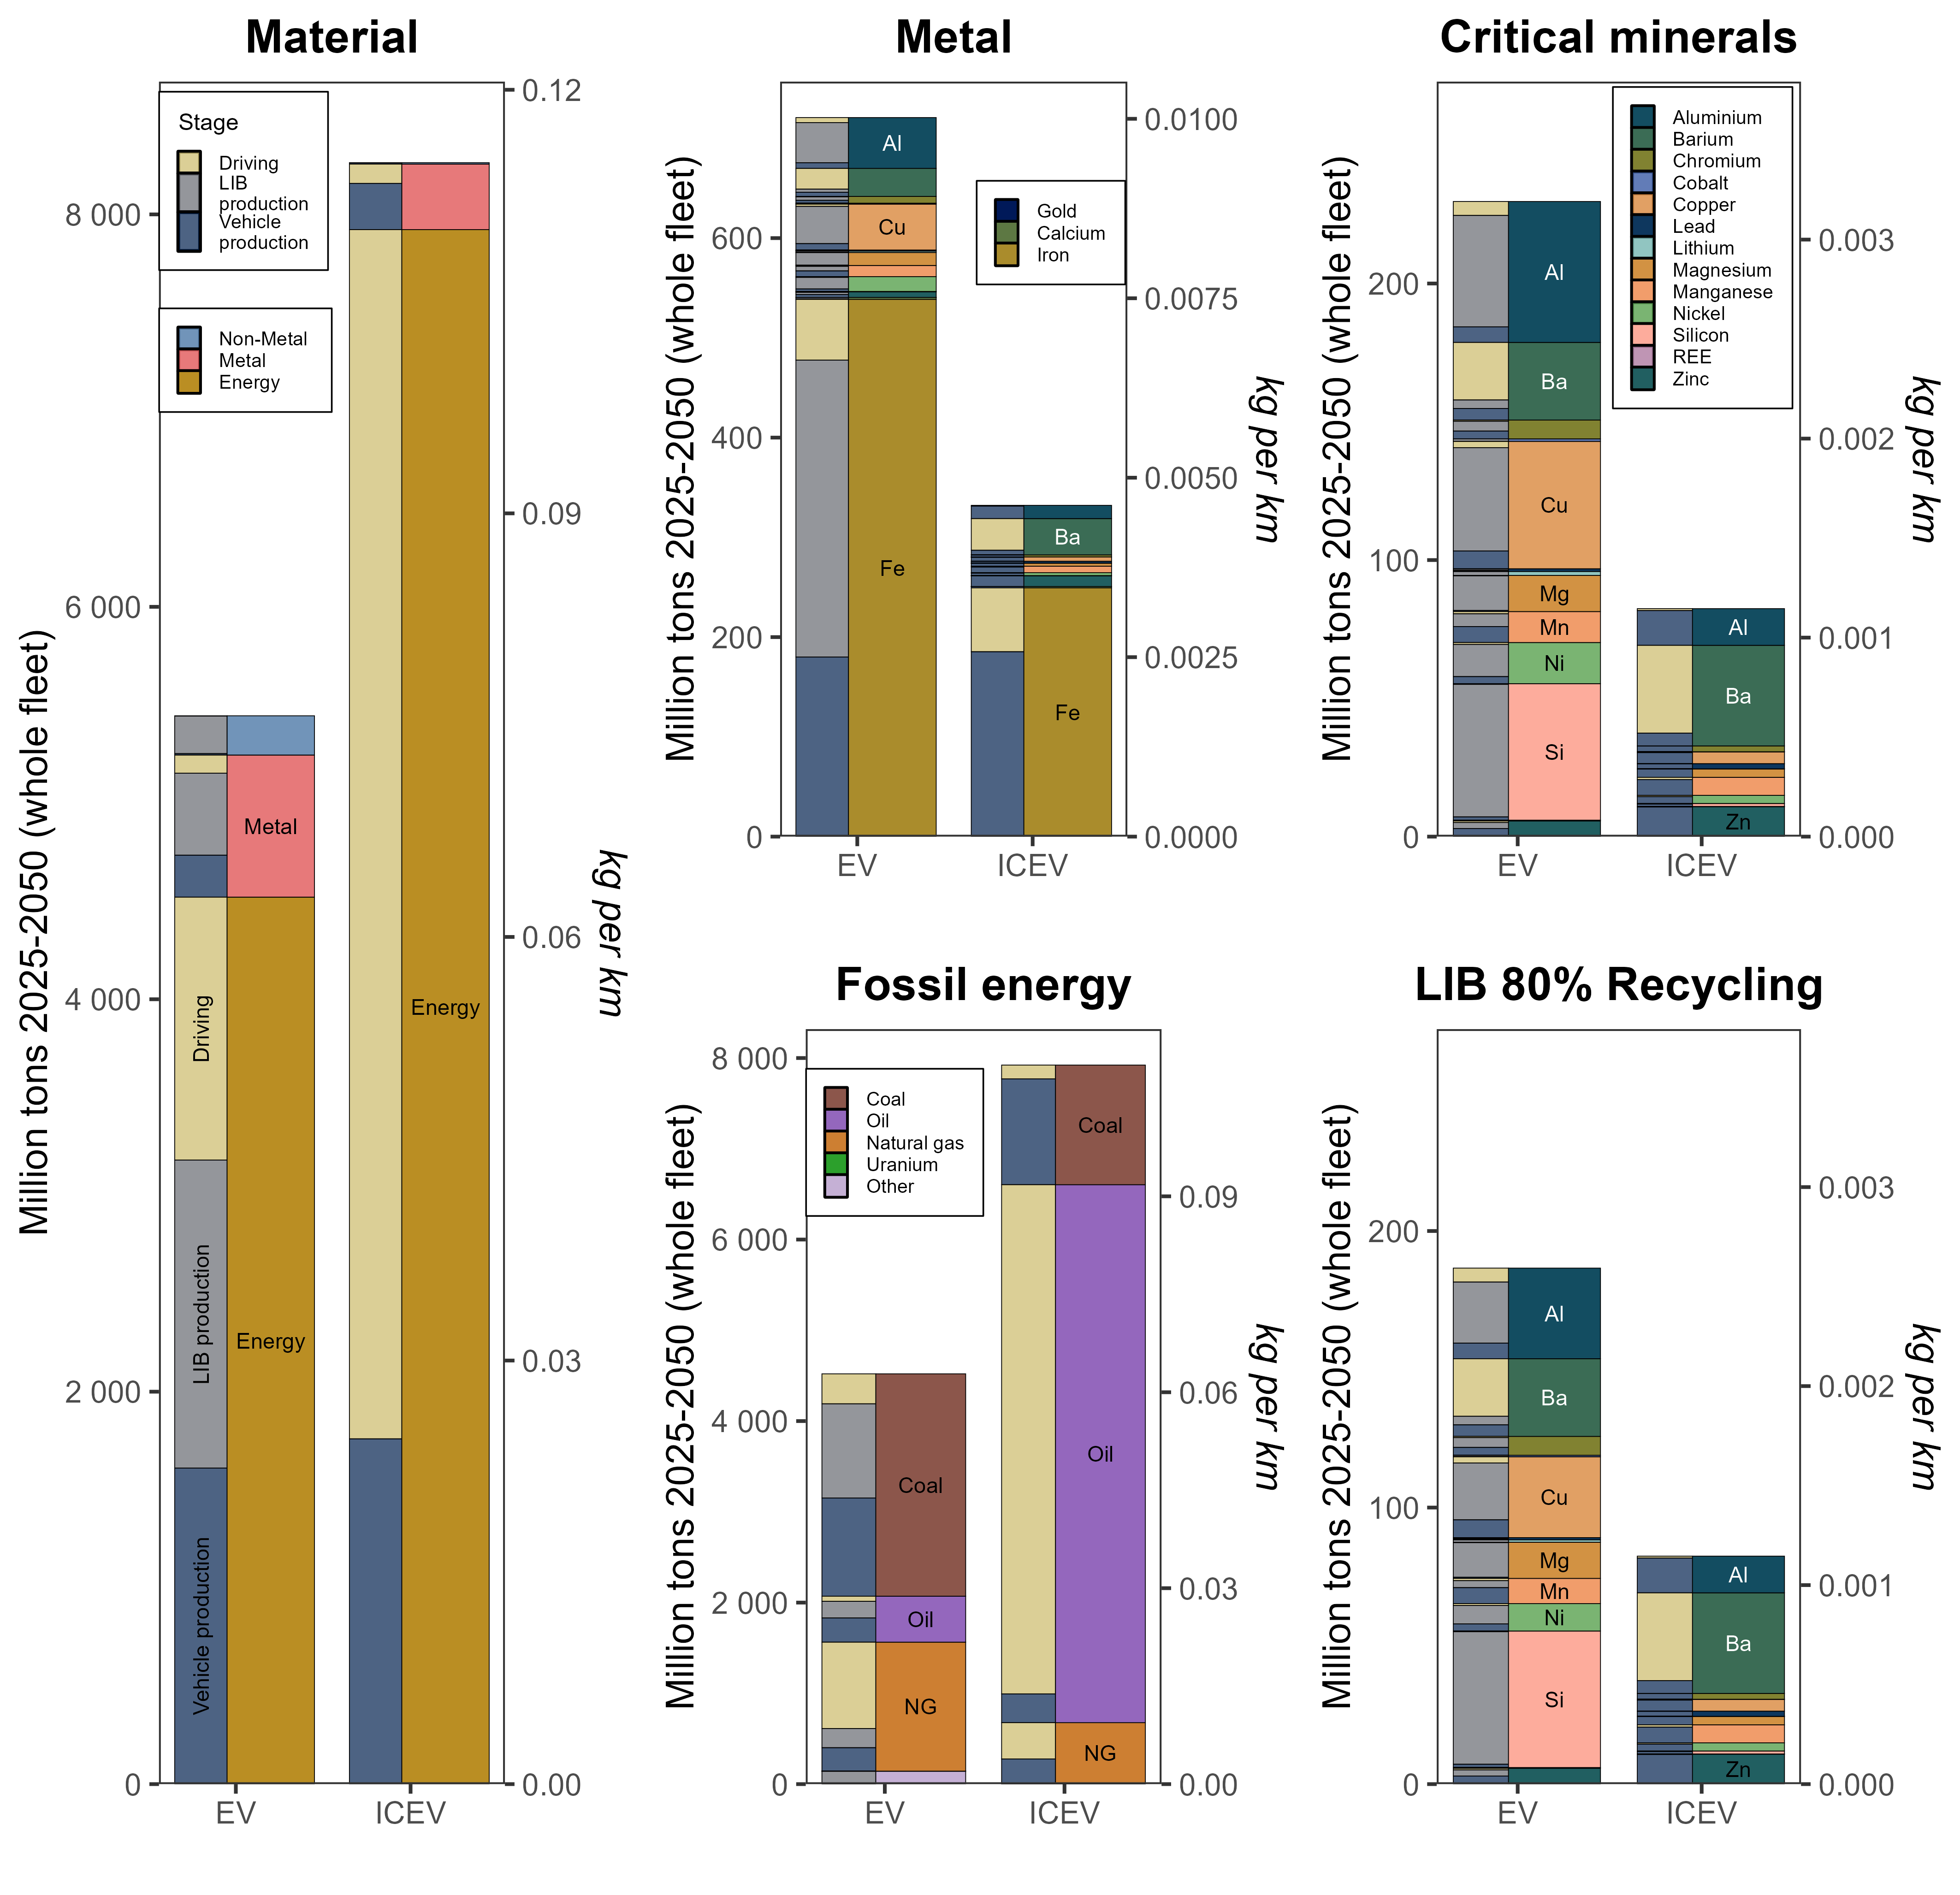
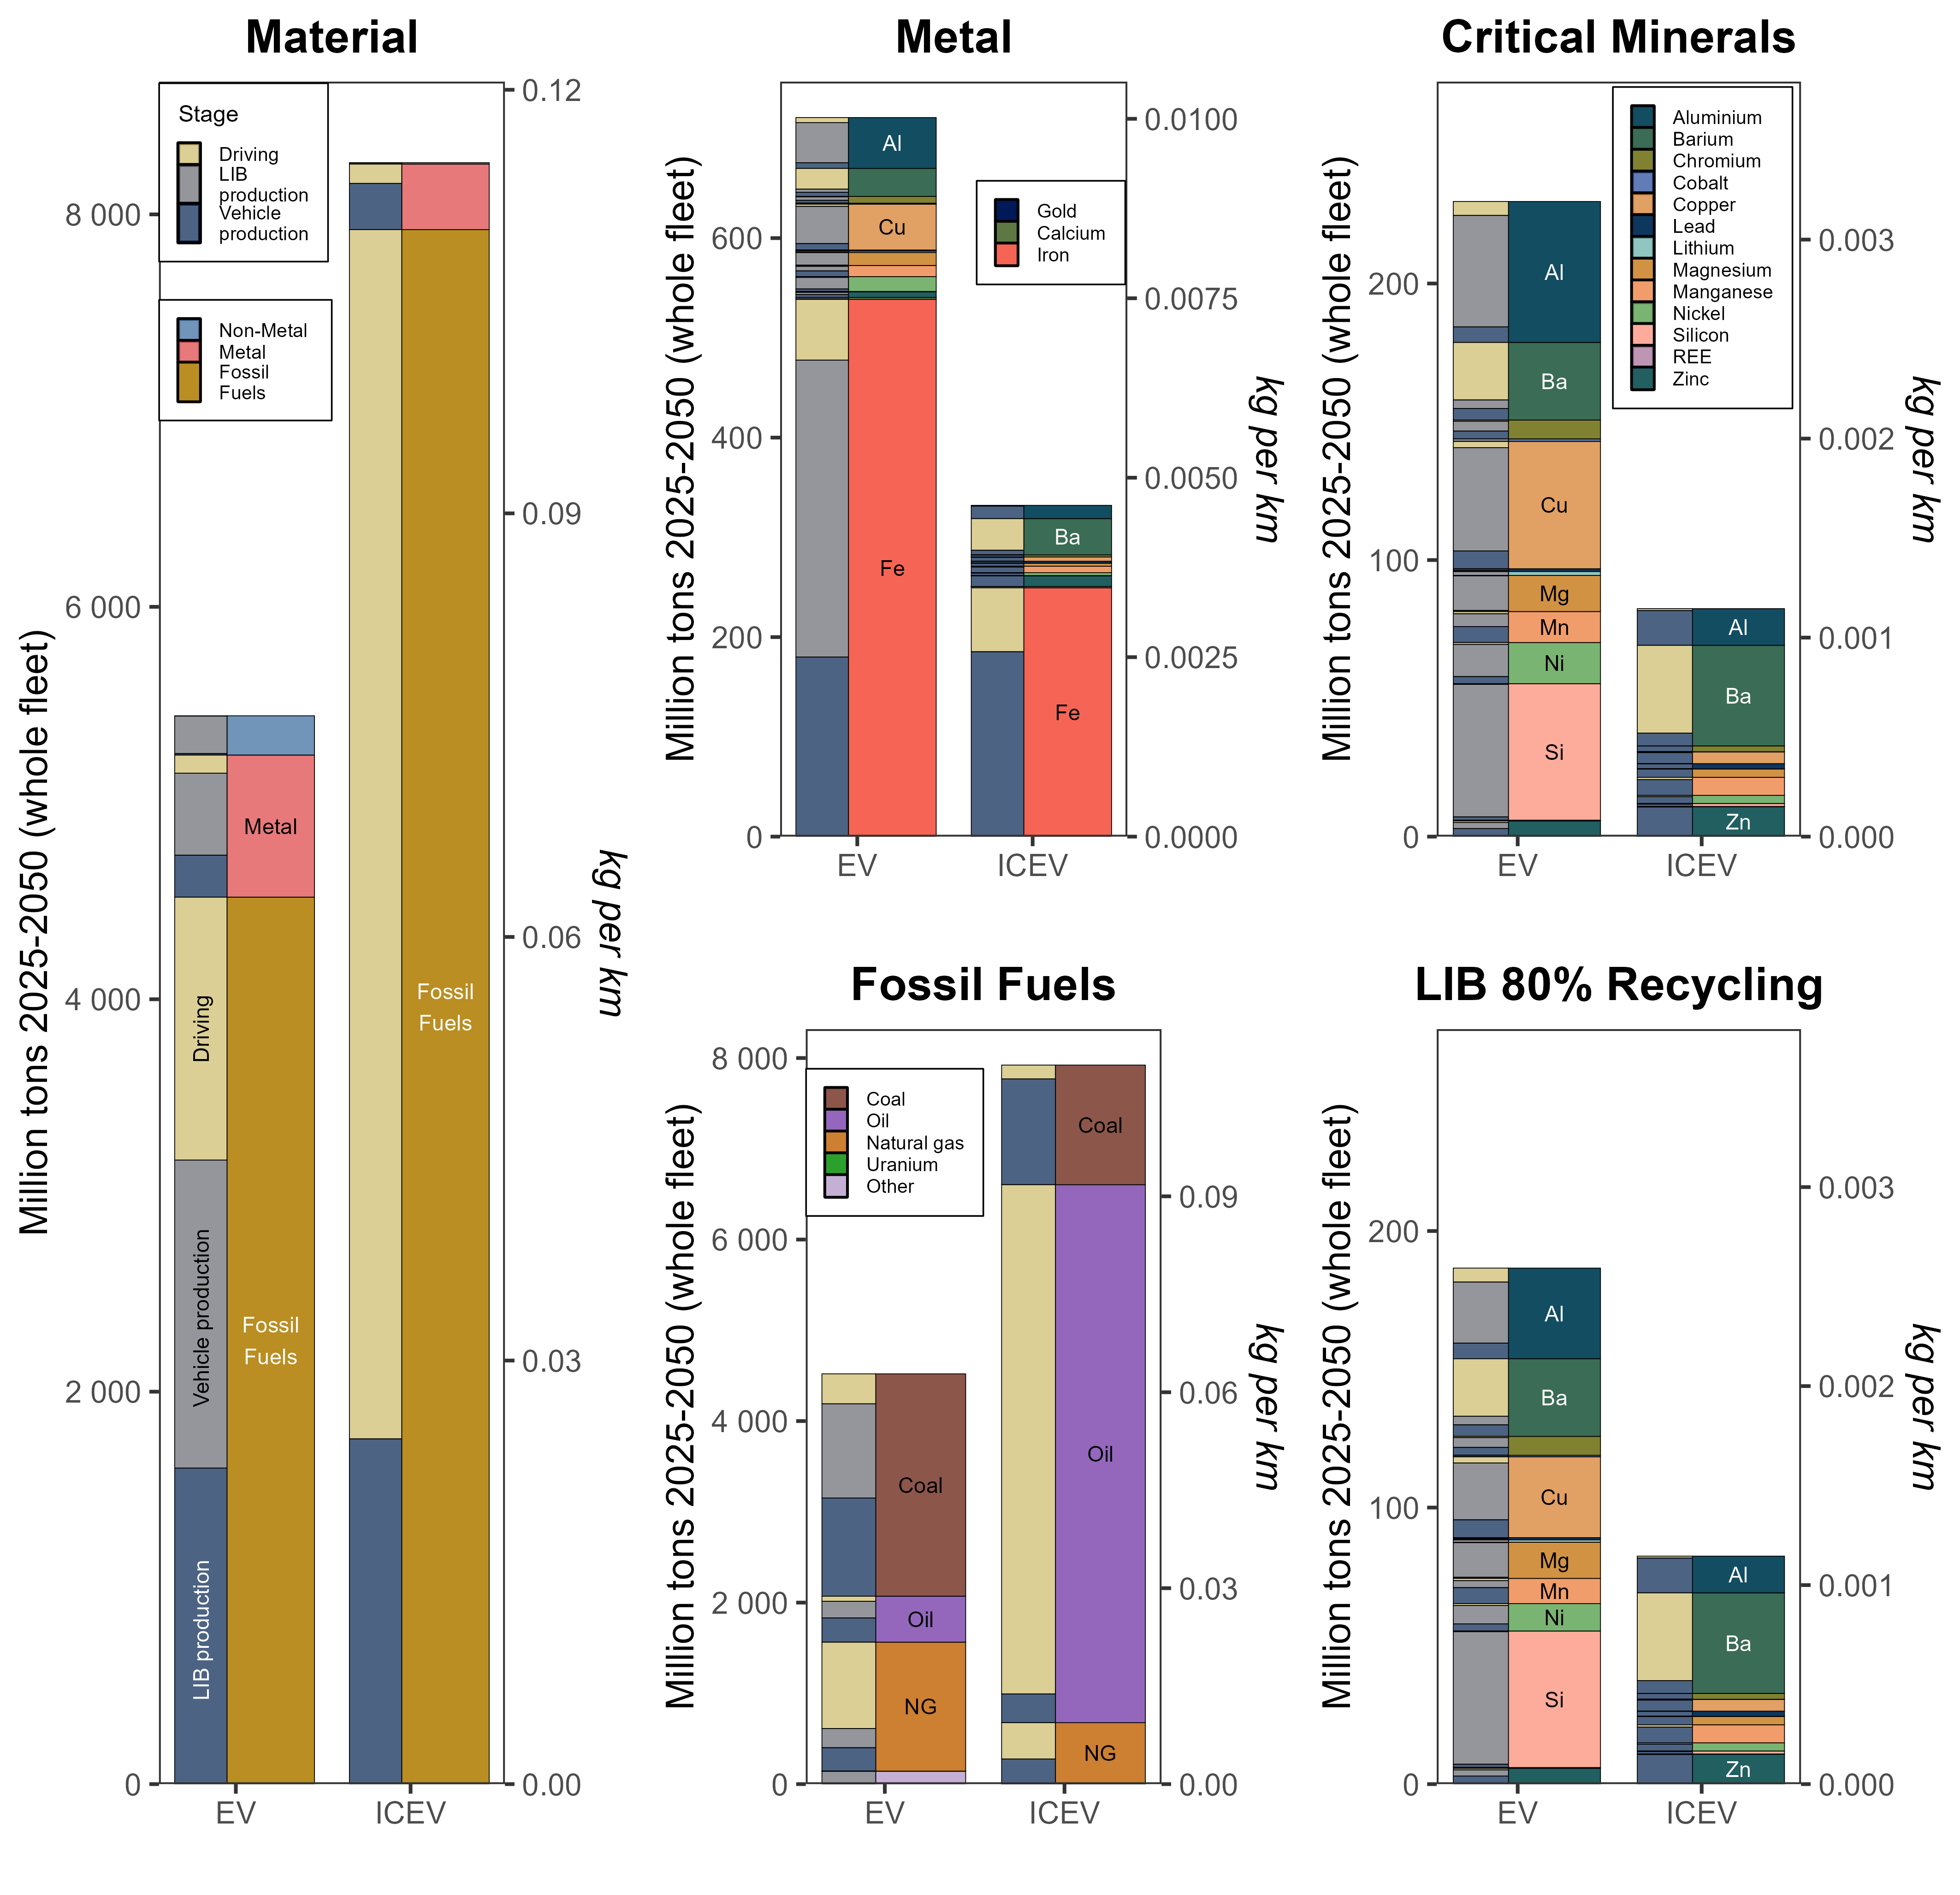
rev 2

diff --git a/Inputs/README.md b/Inputs/README.md
@@ -1,3 +1,3 @@
-# The energy, material and carbon handprint of lithium-ion batteries in electric vehicles - A US fleet model
+# Life cycle performance and carbon handprint of lithium-ion batteries in electric vehicles - A US fleet model
 
 Data used to support the findings of this study were retrieved from the following resources available in the public domain: [GREET](https://greet.anl.gov/publications), [EIA Annual Energy Outlook 2025](https://www.eia.gov/outlooks/aeo/tables_ref.php), [NREL Cambium](https://www.nrel.gov/analysis/cambium) and [TEDB](https://tedb.ornl.gov/). Other data used to support the findings of this study are subject to third-party restrictions: ICCT roadmap, EV Volumes and ecoinvent 3.11. 

diff --git a/README.md b/README.md
@@ -1,4 +1,4 @@
-# Life cycle performance and carbon handprint of lithium-ion batteries in electric vehicles - A US fleet model
+# Life cycle performance and carbon handprint of lithium-ion batteries in electric vehicles
 
 Replication materials for Busch *et al.* [*Under Review*](https://www.researchsquare.com/article/rs-8436282/v1). 
 

diff --git a/Scripts/README.md b/Scripts/README.md
@@ -1,4 +1,4 @@
-# Life cycle performance and carbon handprint of lithium-ion batteries in electric vehicles - A US fleet model
+# Life cycle performance and carbon handprint of lithium-ion batteries in electric vehicles
 
 Folders:
 